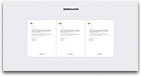
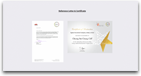
updated cert and resume

diff --git a/client/accountsHooks.js b/client/accountsHooks.js
@@ -4,7 +4,7 @@ Accounts.onResetPasswordLink(function(_token, _done){
 Accounts.onEmailVerificationLink(function(token, done){
 	Accounts.verifyEmail(token, function(err){
 		if(!err){
-			Bert.alert('Email verified', 'success')
+			Bert.alert('電郵已驗證', 'success')
 			done();
 		}
 	});
@@ -17,7 +17,6 @@ AutoForm.addHooks('register-form', {
 			if(!result){
 				return result;
 			} else {
-				console.log(doc);
 				Meteor.call('pairEmailPhoneNumber', doc.email, doc.phoneNumber, function(err, result){
 					if(err){
 						Bert.alert(err.reason, 'danger');
@@ -26,7 +25,7 @@ AutoForm.addHooks('register-form', {
 					if(result){
 						_this.result(doc);
 					} else {
-						Bert.alert('Phone number not exist', 'danger');
+						Bert.alert('電話號碼不存在 (請先登記成為「星級財策領袖實習計劃 2015」! 或使用已登記之電話號碼)', 'danger');
 						// $('#register-form button[type=submit]').attr('disabled', false);
 						_this.result(false);
 					}
@@ -35,7 +34,7 @@ AutoForm.addHooks('register-form', {
 		}
 	},
 	onSuccess: function(method, result) {
-		Bert.alert('Please check email and verify your email address', 'success')
+		Bert.alert('請檢查電子郵件並驗證您的電郵地址', 'success')
 		$('#register').modal('hide');
 	},
 	onError: function(method, err){

diff --git a/client/views/templates/referenceTemplate.html b/client/views/templates/referenceTemplate.html
@@ -3,8 +3,8 @@
 		<div class="container container-fixed">
 			<h3 class="text-center"><strong><u>Reference Letter & Certificate</u></strong></h3>
 			<div class="row">
-				<a href="#" target="_blank" data-toggle="modal" data-target="#cert_ref_download"><div class="resume col-xs-5 text-left"><img src="/images/resume-sample.jpg" alt=""></div></a>
-				<a href="#" target="_blank" data-toggle="modal" data-target="#cert_ref_download"><div class="resume col-xs-7 text-right"><img src="/images/cert-sample.jpg" alt=""></div></a>
+				<a href="#" target="_blank" data-toggle="modal" data-target="#cert_ref_download"><div class="resume col-xs-5 text-left"><img src="/images/resume-sample-2.png" alt=""></div></a>
+				<a href="#" target="_blank" data-toggle="modal" data-target="#cert_ref_download"><div class="resume col-xs-7 text-right"><img src="/images/cert-sample-2.png" alt=""></div></a>
 				<!-- <a href="/images/demo.pdf" target="_blank"><div class="resume col-xs-4 text-center"><img src="/images/resume-sample.jpg" alt=""></div></a>
 				<a href="/images/demo.pdf" target="_blank"><div class="resume col-xs-4 text-right"><img src="/images/resume-sample.jpg" alt=""></div></a> -->
 			</div>

diff --git a/client/styles/template.less b/client/styles/template.less
@@ -38,6 +38,7 @@
 	    text-decoration: underline;
 	    cursor: pointer;
 	}
+	.tips{ position: absolute; top: 430px; left: 735px; width: 240px; text-align: left; font-size: 12px; }
 	.photo-up{
 		width:100%; height:100%;
 		.dropbox.no-image{ 
@@ -246,7 +247,8 @@
 }
 
 .speechTemplate{
-	background-color: #6dc2d4; min-height:600px; padding:160px 0; color:#FFF;
+	background-color: #6dc2d4; min-height:600px; padding:160px 0; color:#FFF; 
+	.container{ position:relative; }
 	.modal-title{ color:#000; text-align: left; }
 	.photo-up{
 		width:100%; height:100%;
@@ -261,6 +263,15 @@
 			background-image: url(/images/speech-upload.png); background-color: transparent;
 			.photo-in{ width:100%; height:100%; }
 		}
+	}
+	.tips1{ position:absolute; top: -30px; left: 80px; }
+	.tips2{ position:absolute; bottom: -70px; right: 90px; text-align: center; }
+	.jcrop-holder{ margin:0 auto; }
+	.filter_title{ display:none; }
+	.card .card-image{
+		margin-left: -10px;
+		#image-preview{ width:300px; }
+		.card-title, .card-tagline{ display:none; }
 	}
 	.speechText{ 
 		width:900px; margin-bottom:5px; font-size:80px; font-weight:bold; line-height:80px; 

diff --git a/client/styles/theme.less b/client/styles/theme.less
@@ -57,7 +57,8 @@ a{ color:#ff6633; font-size:14px; text-decoration: underline; }
 .modal-content{ border-radius: 0; }
 .btn{ border-radius: 0; }
 #register, #forgetPassword{
-	h3{ margin-top:0; margin-bottom:70px; font-size:36px; font-weight: bold; }
+	h3{ margin-top:0; margin-bottom:10px; font-size:36px; font-weight: bold; }
+	.reminder{ margin-bottom:60px; }
 	a.closePopup{ 
 		position: absolute; top: 20px; right: 20px; 
 		color: #FFF; font-size: 26px; text-decoration: none;
@@ -114,8 +115,8 @@ a{ color:#ff6633; font-size:14px; text-decoration: underline; }
 	}
 	.thridRow{ 
 		.container.container-fixed{ position:relative; }
-		height: 616px; background-image: url(/images/about-bg-3.jpg); 
-		background-repeat: no-repeat; background-position: center bottom;
+		height: 590px; background-image: url(/images/about-bg-3.jpg); 
+		background-repeat: no-repeat; background-position: center top;
 		.textWrap{ position:absolute; top: 180px; left: 1040px; left:570px; width:350px; }
 	}
 }

diff --git a/client/views/authorization/user-setting.js b/client/views/authorization/user-setting.js
@@ -25,7 +25,7 @@ Template.userSetting.events({
 			if(err){
 				Bert.alert(err.reason, 'danger');
 			} else {
-				Bert.alert('User profile updated', 'success');
+				Bert.alert('用戶設定已更新', 'success');
 			}
 		});
 	},
@@ -46,16 +46,16 @@ Template.userSetting.events({
 			if(err){
 				Bert.alert(err.reason, 'danger');
 			} else if(newPassword != rePassword){
-				Bert.alert('Password not match', 'danger');
+				Bert.alert('密碼錯誤', 'danger');
 			} else if(current == newPassword){
-				Bert.alert('Current password & new password cannot be the same', 'danger');
+				Bert.alert('當前密碼和新密碼不能相同', 'danger');
 			} else {
 				Accounts.changePassword(current, rePassword, function(err){
 					if(err){
 						Bert.alert(err.reason, 'danger');
 					} else {
 						$('#changePassword')[0].reset()
-						Bert.alert('Password changed', 'success');
+						Bert.alert('密碼已更改', 'success');
 					}
 				});
 			}

diff --git a/client/views/templates/speechTemplate.html b/client/views/templates/speechTemplate.html
@@ -1,6 +1,7 @@
 <template name="speechTemplate">
 	<div class="speechTemplate">
 		<div class="container container-fixed">
+			<div class="editComponent tips1">(此部分由學長填寫)</div>
 			<div class="adminEditable speechText heightFree">See more, work more, and you will gain more</div>
 			<div class="adminEditable speechName heightFree">My Mentor</div>
 			<div class="speechPhoto text-right pull-right">
@@ -11,6 +12,7 @@
 					<img src="/images/demo/speech-thumbnail-1.jpg" alt="" class="img-circle" />
 				{{/if}}
 			</div>
+			<div class="editComponent tips2">溫馨提示:<br />您可上載與學長的合照</div>
 		</div>
 	</div>
 </template>

diff --git a/client/views/authorization/reset-password.js b/client/views/authorization/reset-password.js
@@ -7,7 +7,7 @@ Template.resetPassword.events({
 		if(!rePassword) $('#reset-rePassword').parent().addClass('has-error');
 		if(!rePassword || !newPassword) return false;
 		if(newPassword != rePassword){
-			Bert.alert('Password not match', 'danger');
+			Bert.alert('密碼錯誤', 'danger');
 			return false;
 		} else {
 			var token = Session.get('resetToken');
@@ -16,7 +16,7 @@ Template.resetPassword.events({
 					Bert.alert(err.reason, 'danger');
 				} else {
 					Session.set('resetToken', null);
-					Bert.alert('Password reset', 'success');
+					Bert.alert('密碼已重置', 'success');
 				}
 			});
 		}

diff --git a/client/views/authorization/login.html b/client/views/authorization/login.html
@@ -7,7 +7,7 @@
 				<p>一個連結 令你的未來機遇找到你</p>
 				<form id="login-form" novalidate="novalidate">
 					<div class="form-group">
-						<input type="text" id="login-email" class="form-control" placeholder="登入ID / 電話號碼">
+						<input type="text" id="login-email" class="form-control" placeholder="登記電郵地址 / 電話號碼">
 					</div>
 					<div class="form-group">
 						<input type="password" id="login-password" class="form-control" placeholder="密碼">

diff --git a/client/views/authorization/register.html b/client/views/authorization/register.html
@@ -2,6 +2,7 @@
 	<a href="javascript:void(0)" data-dismiss="modal" class="closePopup"><i class="glyphicon glyphicon-remove"></i></a>
 	<div class="container-fluid">
 		<h3>登記使用網上履歷</h3>
+		<p class="reminder">(必須已成為「星級財策領袖實習計劃2015」學員)</p>
 		{{#autoForm schema=registerSchema id="register-form" type="method" meteormethod="register"}}
 			{{> afQuickField name="name"}}
 			{{> afQuickField name="email"}}

diff --git a/client/views/imageUploader/imageUploader.js b/client/views/imageUploader/imageUploader.js
@@ -23,10 +23,10 @@ Template.imageUploader.events({
 			if(err) {
 				Bert.alert(err.reason, 'danger');
 			} else if(!result){
-				Bert.alert('Please select an area', 'danger');
+				Bert.alert('請選取影像範圍', 'danger');
 			} else {
 				Session.set('previewImageSrc', '');
-				Bert.alert('Image cropped', 'success');
+				Bert.alert('影像已裁剪', 'success');
 			}
 			$('#fileUploadForm')[0].reset();
 		});

diff --git a/client/views/templates/coverTemplate.html b/client/views/templates/coverTemplate.html
@@ -6,6 +6,17 @@
 				{{> photoUp photoUpOptions }}
 			</div>
 
+			<div class="editComponent tips">
+				溫馨提示:
+				<br />
+				(1) 最佳相片尺寸: 1920x975
+				<br />
+				(2) 檔案格式: jpg / png
+				<br />
+				(3) 建議使用淺色背景的相片
+				<br />
+				(4) 建議人像於右邊, 可避免與文字重疊
+			</div>
 			<div class="editComponent resetBtn">
 				Reset image
 			</div>

diff --git a/client/views/common/photoUpOverride.html b/client/views/common/photoUpOverride.html
@@ -17,7 +17,7 @@
 						<div class="modal-header">
 							<button type="button" class="close" data-dismiss="modal" aria-label="Close"><span aria-hidden="true">&times;</span></button>
 							<h4 class="modal-title text-left">
-								裁切相片 / 添加濾鏡
+								裁切相片 <span class="filter_title">/ 添加濾鏡</span>
 							</h4>
 						</div>
 						<div class="modal-body">
